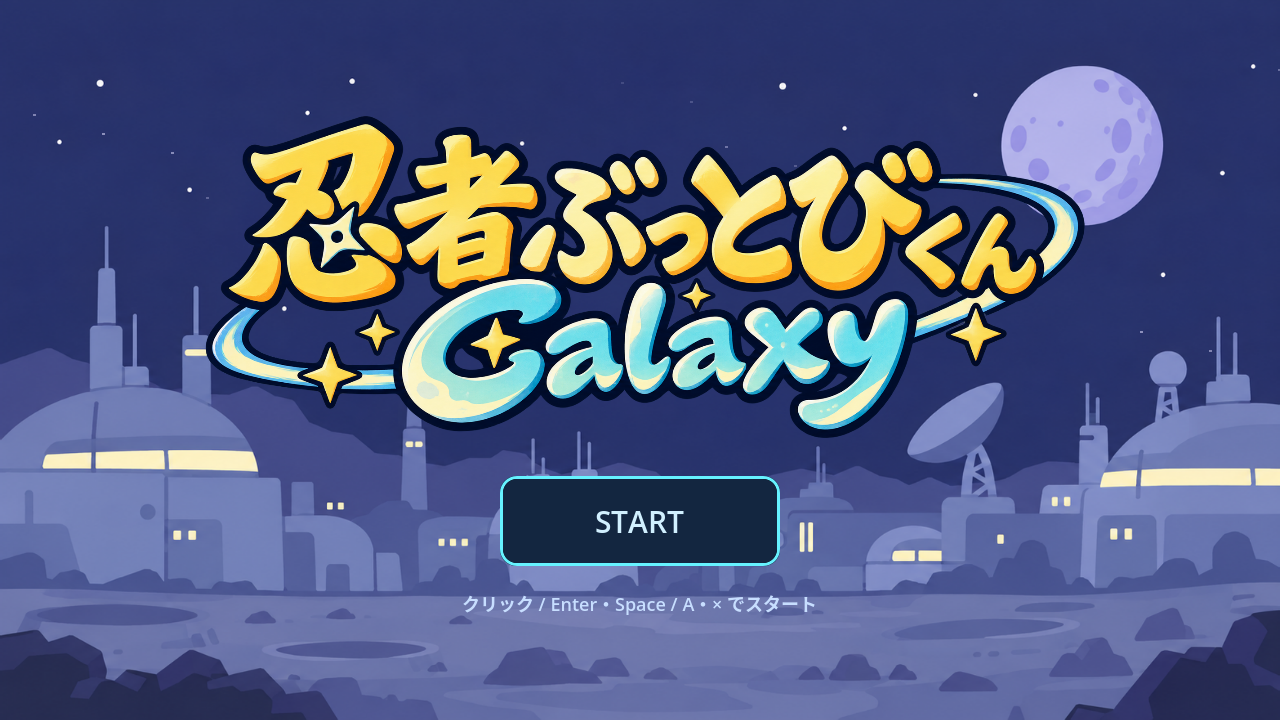
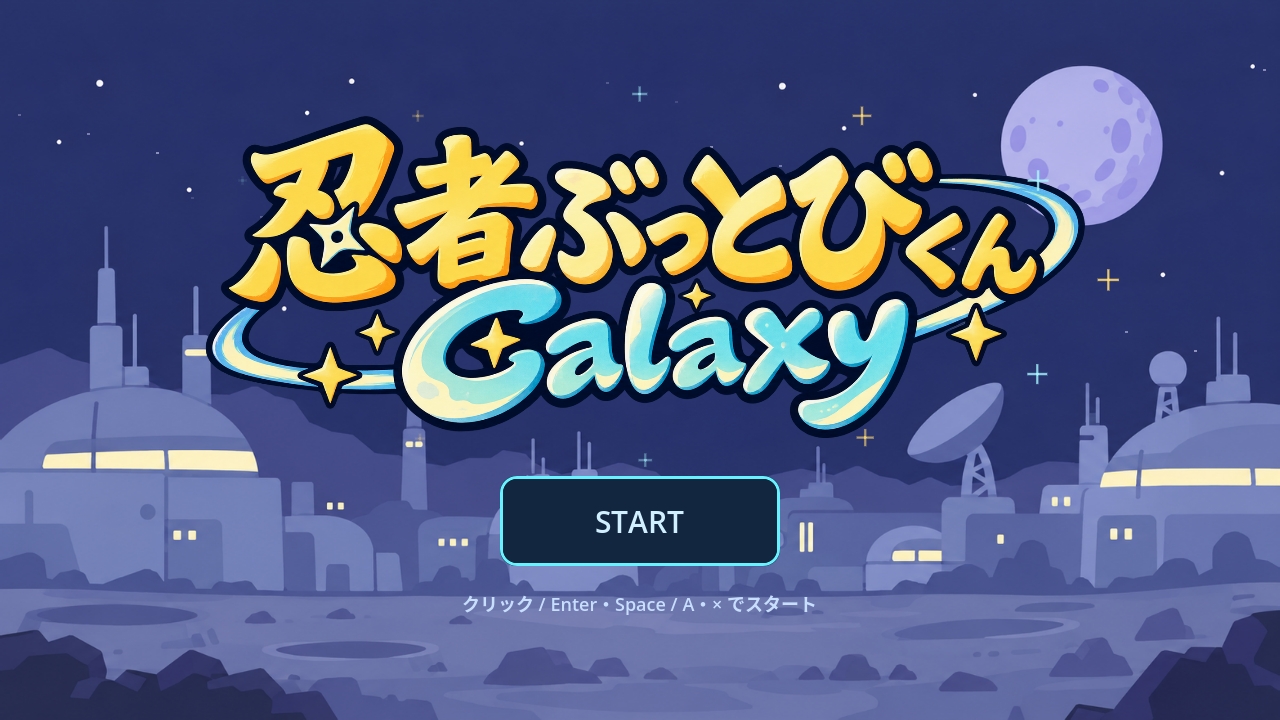
✨ スタート画面にロゴのきらめきと段階的な表示演出を追加
- ロゴの登場と緩やかな拡大縮小、周囲の星の明滅を追加
- ロゴに続いてSTARTと操作説明を表示し、非表示中のクリックを抑制
- 演出中の決定操作を維持し、OSのモーション低減設定に対応
- 登場順と入力受付のテスト、仕様書、README、スクリーンショットを更新

ゲームパッド入力とOSのモーション低減設定は実機では未検証。

diff --git a/docs/start-screen.md b/docs/start-screen.md
@@ -13,6 +13,15 @@
 - プレイ中とクリア後の戻り先はステージ選択画面とする。
 - 基準の画面サイズは1280×720。ロゴの縦横比を保つ。
 
+## タイトルの演出
+
+- ロゴは0.65秒で、少し小さい状態から通常の大きさへ拡大しながら表示する。
+- 起動から0.8秒後にSTARTが現れ始め、操作説明も続いて表示する。レイアウトの位置は動かさない。
+- ロゴの周囲に金色と水色の星を12個配置し、それぞれ異なるタイミングで約2.8秒かけて明滅させる。
+- 表示後のロゴは約5.6秒の周期で、最大1.2%だけ緩やかに拡大・縮小する。
+- 演出中もEnter／Space・ゲームパッドA／×でステージ選択へ直接進める。STARTが現れ始めるまでは、透明なボタンがクリックを受け取らないようにする。
+- OSが「アニメーションを減らす」設定を通知した場合は、登場演出・きらめき・拡大縮小と背景の動きを止め、ロゴとSTARTを最初から表示する。通知の有無は [GodotのAPI](https://docs.godotengine.org/en/stable/classes/class_displayserver.html#class-displayserver-method-accessibility-should-reduce-animation) で確認する。
+
 ![スタート画面](screenshots/start-screen.png)
 
 ## 画面遷移
@@ -40,6 +49,8 @@ godot --headless --fixed-fps 60 --path . --script res://tests/stage_select_test.
 
 描画ありで同じテストに `-- --screenshots` を付けると、スタート画面とステージ選択の画像を `docs/screenshots/` に保存する。
 
-Godot 4.7.2で、画面の往復と既存ステージ選択を含む63項目がヘッドレス・描画ありの双方で成功した。共通クリア画面の32項目もヘッドレスで成功した。実画面でロゴの文字・透過と配置、STARTのフォーカス表示、戻るボタンの配置を確認した。ゲームパッドは入力イベントで検証し、実機では未確認。
+`tests/stage_select_test.gd` では、登場順・STARTの表示完了・クリック受付開始・演出中の決定操作と、既存の画面遷移を確認する。ゲームパッドは入力イベントで検証し、実機では未確認。
+
+Godot 4.7.2で69項目がヘッドレス・描画ありの双方で成功した。7秒の動画から登場順と星の変化を確認し、START表示後の画像を更新した。OSの動きを減らす設定は実機では未確認。
 
 変更しにくい設計上の選択はないため、ADRは作成しない。

diff --git a/docs/stage-selection.md b/docs/stage-selection.md
@@ -56,4 +56,4 @@ Godot_v4.7.2-stable_win64_console.exe --headless --fixed-fps 60 --path . --scrip
 
 `STAGE_SELECT_TEST_OK` と終了コード0を成功条件とする。環境プレビューは `tests/environment_art_test.gd`、各攻略コースは対応するステージテストで確認する。
 
-共通クリア画面は `tests/stage_clear_test.gd` で全4ステージの表示と復帰を確認する。成功条件は `STAGE_CLEAR_TEST_OK`（32項目）。スタート画面追加後、ステージ選択の63項目はヘッドレスと描画ありの双方で成功し、共通クリア画面の32項目もヘッドレスで成功した。
+共通クリア画面は `tests/stage_clear_test.gd` で全4ステージの表示と復帰を確認する。成功条件は `STAGE_CLEAR_TEST_OK`（32項目）。タイトル演出の追加後、ステージ選択の69項目はヘッドレスと描画ありの双方で成功した。共通クリア画面の32項目はスタート画面追加時にヘッドレスで成功した。

diff --git a/README.md b/README.md
@@ -15,6 +15,8 @@
 
 F5で起動すると、宇宙背景の中央に「忍者ぶっとびくん Galaxy」の手描き風ロゴとSTARTを表示します。STARTのクリック、Enter／Space、ゲームパッドA／×でステージ選択へ進みます。選択画面の「タイトルに戻る」、Esc／Back・Selectでスタート画面へ戻れます。
 
+ロゴが拡大しながら現れ、少し遅れてSTARTと操作説明を表示します。周囲の星はゆっくりきらめき、ロゴもわずかに拡大・縮小します。表示を待たずに決定操作で進めます。OSから動きを減らす設定が通知された場合は、演出を止めて最初から表示します。
+
 仕様は [スタート画面](docs/start-screen.md)、ロゴの生成記録は [タイトル素材](assets/ui/PROMPTS.md) に記録しています。
 
 ![スタート画面](docs/screenshots/start-screen.png)
